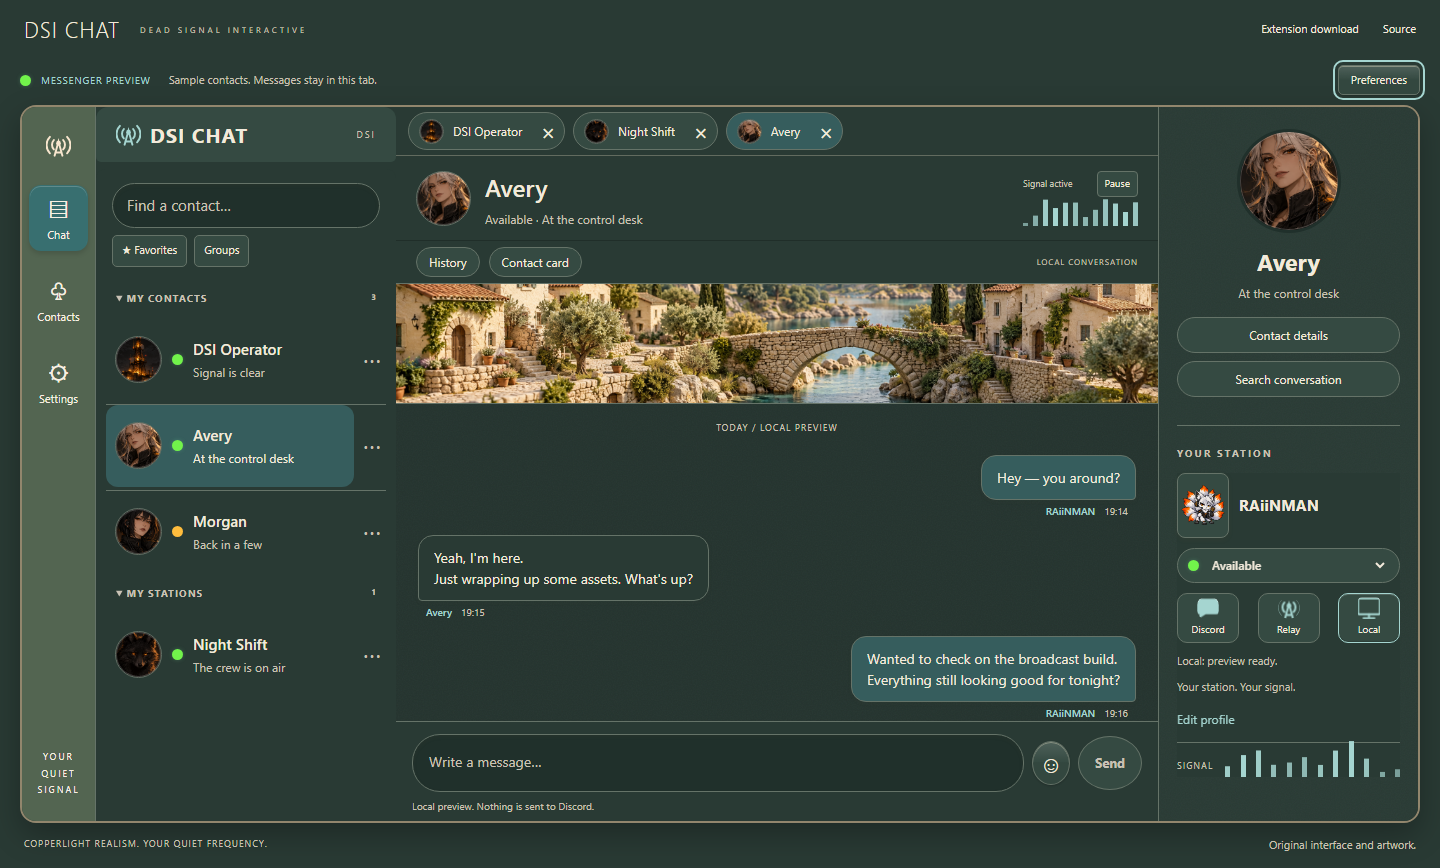
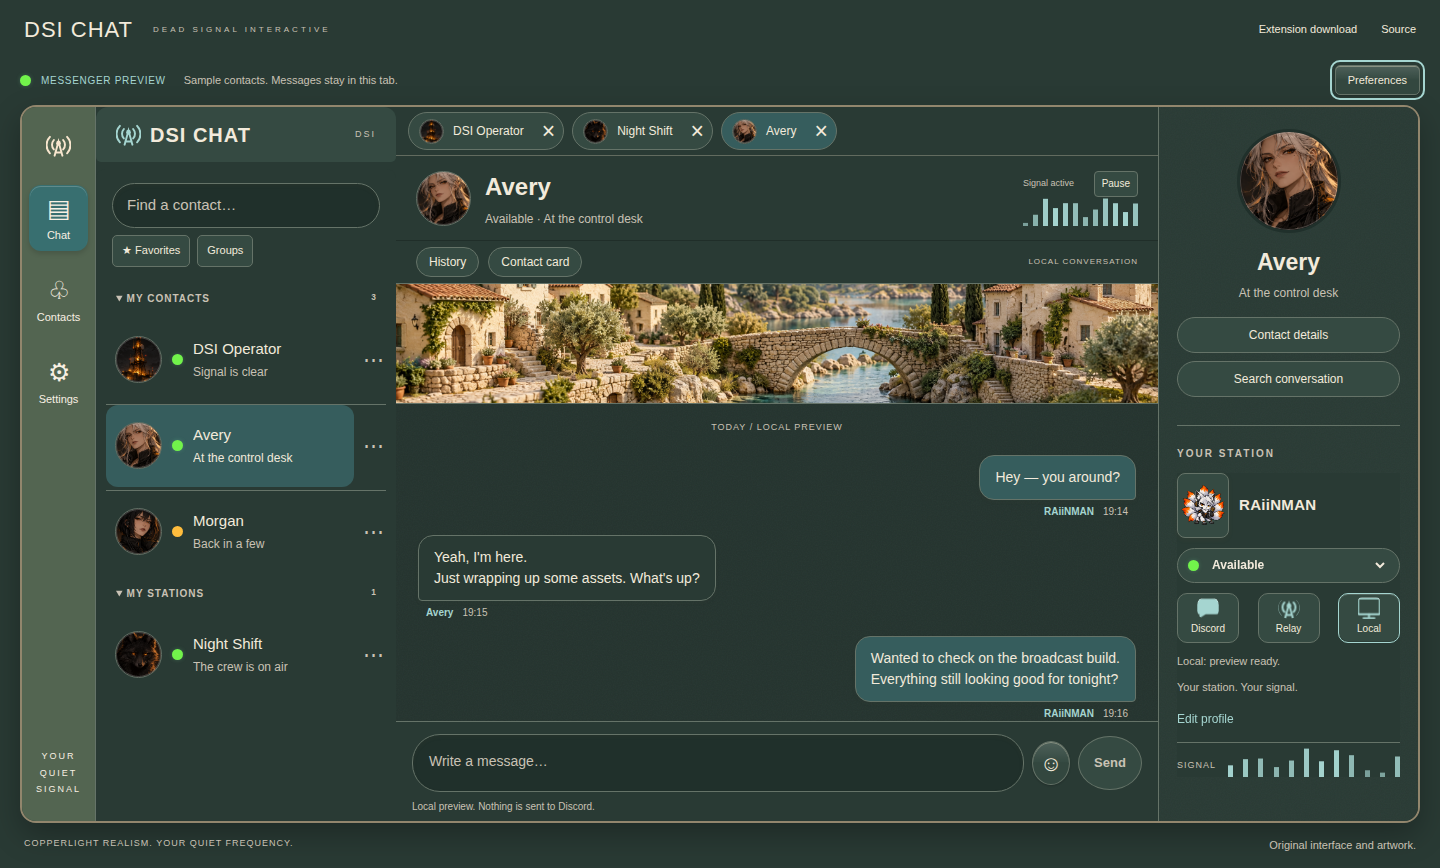
Record reviewed Copperlight implementation and visual evidence

diff --git a/docs/STATE.md b/docs/STATE.md
@@ -55,3 +55,5 @@ October 3 DOX installation: integrated the documentation framework from raiinman
 October 3 Copperlight Realism redesign: user explicitly replaced orange glass and approved the generated copperlight-concept.png. Implemented cream/terracotta/sage/turquoise Afternoon, sage Night and flat High contrast with original ImageGen valley banner, functional navigation rail, selected-contact/station sidebar, message bubbles and responsive layouts. Existing contacts, mascot, local messaging/drafts, groups/favorites, profile, archive/export, themes and motion behavior are retained. New visitors/reset use Afternoon; saved valid theme choices persist. Sixteen unit tests, catalog/build/site preparation, diff checks and local Chromium QA passed. QA now covers navigation/sidebar actions, actual-opener modal focus, default theme and synchronized sidebar. Local screenshot inspection covered 1440x844, Afternoon/Night/High contrast, 390/768 and dialogs; corrected old gloss remnants and signal-label clipping. Retained representative Copperlight captures in docs/design. GitHub review-only validation/publication pending. No live account or physical phone validation.
 
 Copperlight first review-only run 37114770012 passed. GitHub screenshot review caught selected-tab clipping after resizing from desktop to phone; the tab strip now observes its own resize and reveals the active conversation. Shortened the narrow rail caption to prevent overflow. Re-ran sixteen tests, catalog/build/site, local browser QA and diff checks successfully. QA checks the selected tab fits after resize. Final GitHub review remains pending.
+
+Final Copperlight runtime 2dea286 passed review-only run 37114985868 (https://github.com/raiinman/DSI-CHAT/actions/runs/37114985868). Downloaded and inspected the final GitHub captures: 1440x844 desktop, Night, High contrast, 390 phone with active tab and dismissal fully visible, 768 tablet, and native preferences/groups dialogs. Replaced retained Copperlight captures with reviewed GitHub artifacts. All sixteen tests, catalog consistency, build, Chromium interactions, contrast, motion, responsive layout, focus and packaging checks passed; Pages publication was skipped. Prior intermediate review 37114907567 also completed; the final record supersedes it. Owning DOX links/evidence and published-guide exclusion passed. src/browser/tests/catalog/.github guidance and documentation ownership/index remain unchanged because their platform/build/workflow contracts did not change. Publication follows this review.

diff --git a/docs/CODEX_HANDOFF.md b/docs/CODEX_HANDOFF.md
@@ -7,7 +7,7 @@ Prepared October 3, 2026. Continue the existing implementation; do not restart t
 - Repository: https://github.com/raiinman/DSI-CHAT
 - Active implementation and publishing branch: `codex/dsi-original`.
 - Repository default branch `rewrite` preserves the earlier third-party fork. It is NOT the implementation to continue. Do not merge its source/assets into this branch or remove its license notices.
-- Contact organization reviewed runtime: `005c2b4`; published source: `2dd87fa`. Subsequent documentation commits may advance the branch without changing public files.
+- Copperlight reviewed runtime: `2dea286`; final review-only run `37114985868` passed. Publication evidence is recorded in STATE.md; subsequent documentation commits may advance the branch without changing runtime files.
 - Live preview: https://raiinman.github.io/DSI-CHAT/
 - Existing local checkout: `C:\Users\mikea\Documents\Codex\2026-09-30\new-chat-3\DSI-CHAT-original`.
 
@@ -62,7 +62,7 @@ Use a review branch and dispatch `.github/workflows/pages.yml` with `review_only
 
 After review, advance `codex/dsi-original` and publish via its Pages workflow within the already authorized project scope. Check deployment success and public file bytes, not just HTTP 200. Record actual results and any limits in `docs/STATE.md`; retain representative reviewed captures in `docs/design`.
 
-Latest verified publication: Pages run https://github.com/raiinman/DSI-CHAT/actions/runs/37112540971 and extension CI run 37112541018. Review-only run 37112413389 passed. Public hashes matched reviewed HTML/styles/modules/artwork. These were CI Chromium checks against the local preview, not testing a live Discord account or a physical phone.
+Previous orange-glass publication: Pages run https://github.com/raiinman/DSI-CHAT/actions/runs/37112540971 and extension CI run 37112541018. Review-only run 37112413389 passed. Public hashes matched reviewed HTML/styles/modules/artwork. These were CI Chromium checks against the local preview, not testing a live Discord account or a physical phone.
 
 ## Environment caveats
 

diff --git a/site/AGENTS.md b/site/AGENTS.md
@@ -12,6 +12,7 @@ Own the approved Copperlight Realism messenger and its local controls.
 - Shipped artwork is delegated to assets/AGENTS.md.
 
 ## Local Contracts
+- The active conversation tab and its dismissal control must stay visible when the strip resizes, including desktop-to-phone changes.
 - Use the approved copperlight-concept.png: cream plaster, terracotta accents, sage navigation, turquoise controls, matte reading surfaces and subtle texture. Afternoon is the new-visitor default; retain saved Night and flat High contrast.
 - Keep existing contact identities and DSI nine-tailed mascot. The contact details sidebar follows the selected conversation; the station profile remains separate. Do not reintroduce amber glass or decorative portrait arches.
 - History and Contact card stay adjacent; Preferences stays outside that pair.
